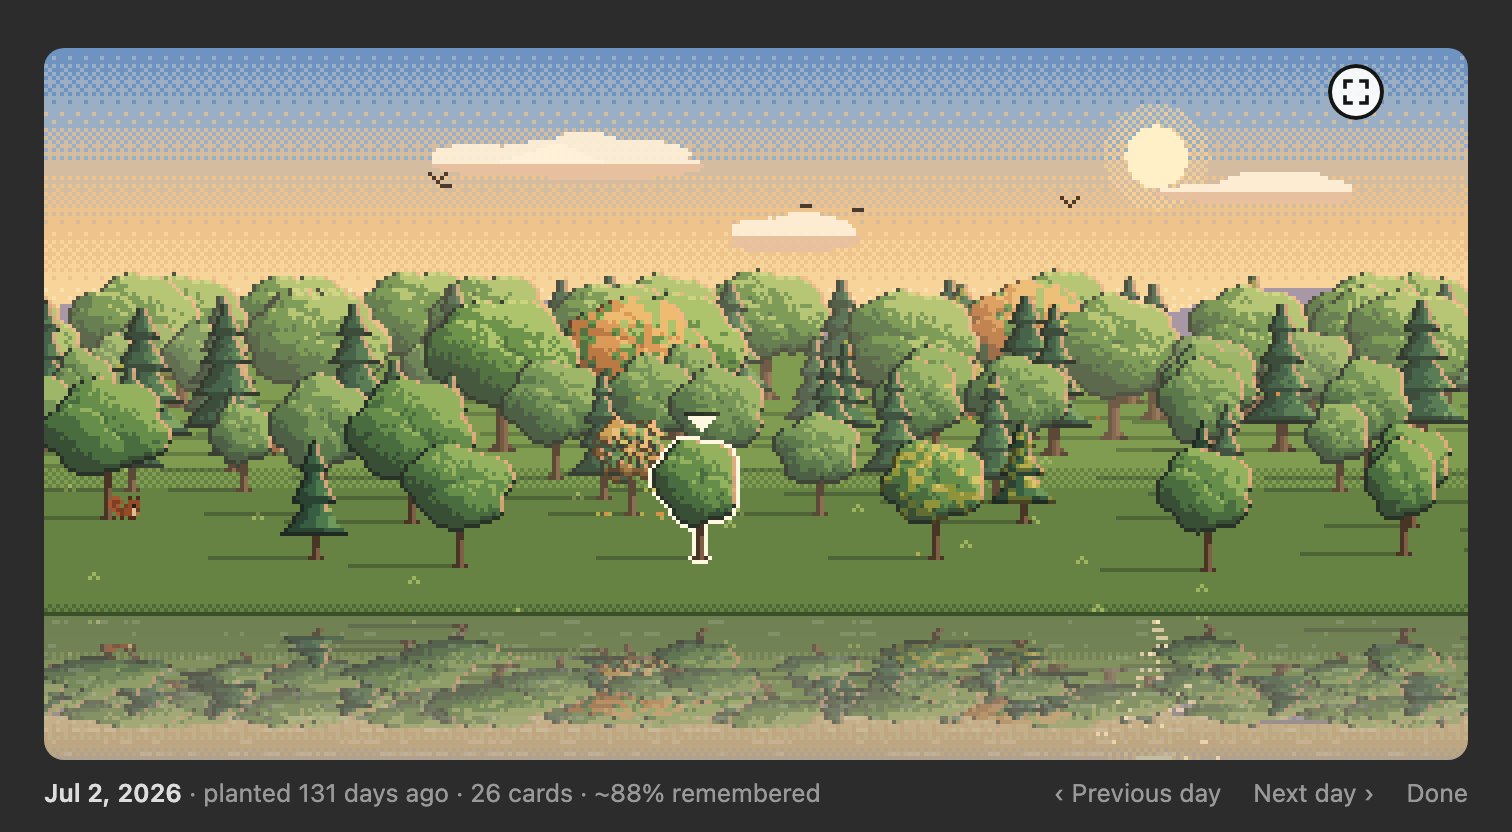
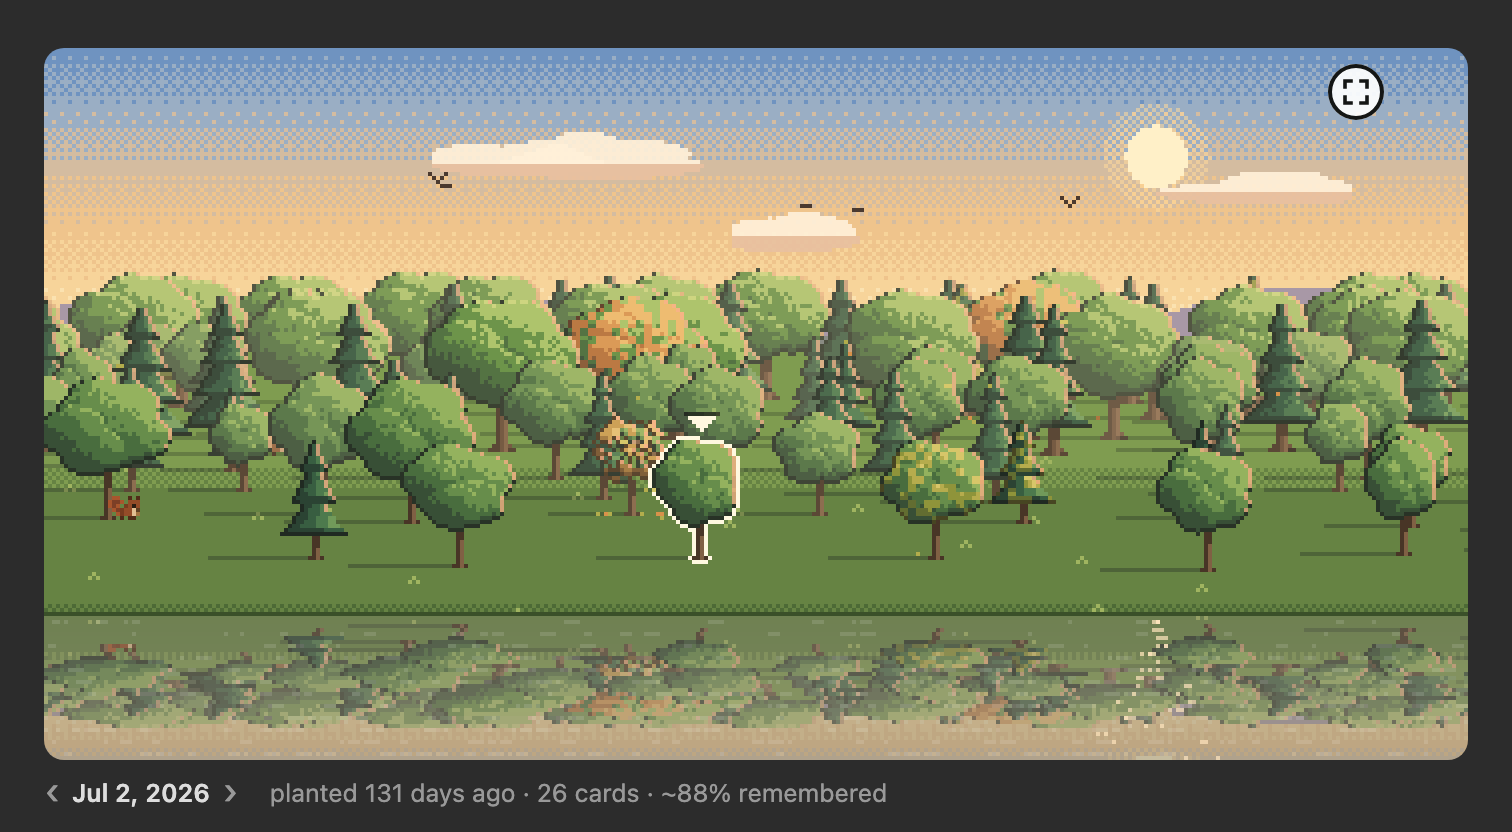
fix: zoomed in, arrows beside the date and no done

Changed region(s): [[0.0311, 0.9375, 0.5906, 0.9688], [0.6839, 0.9375, 0.9015, 0.9688], [0.9325, 0.9375, 0.9636, 0.9688]]

diff --git a/web/visit.js b/web/visit.js
@@ -195,17 +195,18 @@ const WHEEL_NOTCHES = 30;
 // a finger's second tap within DOUBLE_MS of the first, DOUBLE_PX from it, zooms DOUBLE_ROWS in
 // (a little less than half a pinch to twice as far apart), over DOUBLE_GLIDE_MS
 const DOUBLE_MS = 300, DOUBLE_PX = 30, DOUBLE_ROWS = 1, DOUBLE_GLIDE_MS = 220;
-// the bar's way to the day before or after the tree selected: the camera glides there in GLIDE_MS
-// (on the phone's full screen, just the arrows: there's no room for more)
-const DAYS = [['prev', AF.N_('zoom.previous_day'), '‹', AF.N_('zoom.the_tree_of_the_day_before')], ['next', AF.N_('zoom.next_day'), '›', AF.N_('zoom.the_tree_of_the_day_after')]];
+// the bar's way to the day before or after the tree selected: an arrow either side of its date (as a
+// date picker has them, beside what they change; words, "Previous day", sat across the panel from
+// it), or on the phone's full screen, two big ones on the right, under the thumb; the camera glides
+// there in GLIDE_MS
+const DAYS = [['prev', '‹', AF.N_('zoom.the_tree_of_the_day_before')], ['next', '›', AF.N_('zoom.the_tree_of_the_day_after')]];
 // the arrow keys walk: ↑ and ↓ KEY_ROWS in and out (a wheel's notch), ← and → KEY_SHARE of the
 // canvas's width along the rows (a key held down goes on)
 const KEY_ROWS = 0.4, KEY_SHARE = 0.1;
 const KEYS = { ArrowUp: [0, 1], ArrowDown: [0, -1], ArrowLeft: [-1, 0], ArrowRight: [1, 0] };
+// (no way out on the bar: the zoom button, lit while zoomed in, Esc or a mouse's back button leave;
+// a "Done" there read oddly)
 const BACK = AF.N_('zoom.back_to_the_whole_forest');
-// the bar's way out: "Done", as a mode is left (it showed "Back to the whole forest" while the whole
-// forest was what it showed, the moment zoom was turned on)
-const DONE = AF.N_('zoom.done');
 const GLIDE_MS = 420, LEAVE_MS = 520;
 const MONTH_ROWS = 1.5;
 // A drag past the forest's end (the rows' ends, the back row) gives, ever more stiffly, up to
@@ -313,12 +314,11 @@ AF.visits = function ({ root, data, base, animate, current, go, xOf, warm, alway
     if (shown === now) return;
     shown = now;
     if (!on) { bar.innerHTML = ''; return; }
-    const back = always ? '' : `<button type="button" class="af-visit-btn" data-act="back">${esc(AF.tx(DONE))}</button>`;
     if (picked == null) {
       // (short: the keys are in the zoom button's tooltip; the hint was 84 characters, two lines on a phone)
       const how = touch ? AF.t('zoom.pinch_to_zoom_drag_to_move')
         : AF.t('zoom.scroll_to_zoom_drag_to_move');
-      bar.innerHTML = `<span class="af-visit-about">${month ? `<b>${esc(month)}</b> · ` : ''}${esc(how)}</span><span class="af-visit-acts">${back}</span>`;
+      bar.innerHTML = `<span class="af-visit-about">${month ? `<b>${esc(month)}</b> · ` : ''}${esc(how)}</span>`;
       return;
     }
     // as its tooltip says it (web/tooltips.js), in its words and order: the date, how long ago ("Planted"
@@ -330,14 +330,15 @@ AF.visits = function ({ root, data, base, animate, current, go, xOf, warm, alway
     if (t.stage >= AF.STAGE.YOUNG && t.remembered != null && !(t.suspended && t.suspended >= t.n)) {
       about.push(AF.rememberedText(t));
     }
-    bar.innerHTML = `<span class="af-visit-about"><b>${AF.i18n.bdi(esc(fmtDate(t.date)))}</b> · ${esc(about.join(' · '))}</span><span class="af-visit-acts">`
-      + DAYS.map(([dir, label, ltrArrow, tip]) => {
-        // (right to left, the day before is to the right: its arrow points there, Next's to the left)
-        const arrow = AF.i18n.rtl() ? AF.i18n.arrow(ltrArrow === '‹' ? '›' : '‹') : ltrArrow;
-        const text = dir === 'prev' ? `${arrow} ${esc(AF.tx(label))}` : `${esc(AF.tx(label))} ${arrow}`;
-        return `<button type="button" class="af-visit-btn" data-day="${dir}" title="${esc(AF.tx(tip))}" aria-label="${esc(AF.tx(tip))}"${day(picked, dir) ? '' : ' disabled'}>${always ? arrow : text}</button>`;
-      }).join('')
-      + back + '</span>';
+    const [prev, next] = DAYS.map(([dir, ltrArrow, tip]) => {
+      // (right to left, the day before is to the right: its arrow points there, the day after's to the left)
+      const arrow = AF.i18n.rtl() ? AF.i18n.arrow(ltrArrow === '‹' ? '›' : '‹') : ltrArrow;
+      return `<button type="button" class="af-visit-btn${always ? '' : ' af-visit-step'}" data-day="${dir}" title="${esc(AF.tx(tip))}" aria-label="${esc(AF.tx(tip))}"${day(picked, dir) ? '' : ' disabled'}>${arrow}</button>`;
+    });
+    const date = `<b>${AF.i18n.bdi(esc(fmtDate(t.date)))}</b>`;
+    bar.innerHTML = always
+      ? `<span class="af-visit-about">${date} · ${esc(about.join(' · '))}</span><span class="af-visit-acts">${prev}${next}</span>`
+      : `<span class="af-visit-about"><span class="af-visit-day">${prev}${date}${next}</span>${esc(about.join(' · '))}</span>`;
   }
   /* the tree the camera stands before (up to MONTH_ROWS on), nearest the middle */
   function nearMiddle() {
@@ -647,7 +648,6 @@ AF.visits = function ({ root, data, base, animate, current, go, xOf, warm, alway
     const b = e.target.closest('button');
     if (!b || b.disabled) return;
     if (b.dataset.day) step(b.dataset.day);
-    else if (b.dataset.act === 'back') leave();
   });
   // the keys, while zooming is on and nothing else on the page is being typed into (nor the
   // heatmap under the forest, whose controls the arrow keys switch: web/calendar/)

diff --git a/web/forest.css b/web/forest.css
@@ -119,6 +119,12 @@
 .af-visit-btn[disabled] { opacity: 0.35; cursor: default; }
 .af-visit-btn:focus { outline: 2px solid currentColor; outline-offset: 1px; }
 .af-visit-btn:focus:not(:focus-visible) { outline: none; }
+/* the arrows either side of the selected tree's date (visit.js): a little larger than the words, on
+   the same line height, the bar no taller; padded to be easier to hit, the first one's glyph on the
+   bar's edge */
+.af-visit-day { margin: 0 10px 0 0; }
+.af-visit-step { margin: 0 !important; padding: 0 6px !important; font-size: 19px; line-height: 0; vertical-align: -1px; }
+.af-visit-step:first-child { margin: 0 0 0 -6px !important; }
 /* the buttons on the forest, the zoom and the settings cog in its top right corner: round,
    translucent, darker on hover (Anki's own button styles are more specific: see .af-cog) */
 .af-zoom {
@@ -671,6 +677,9 @@ body.af-behind-zooming > center > :not(.af-panel), body.af-behind-zooming .af-he
 .af-rtl .af-journal, .af-rtl .af-cal-journal { font-style: normal; }
 .af-rtl .af-visit-about { margin: 0 0 0 16px; }
 .af-rtl .af-visit-btn { margin: 0 16px 0 0 !important; }
+.af-rtl .af-visit-day { margin: 0 0 0 10px; }
+.af-rtl .af-visit-step { margin: 0 !important; }
+.af-rtl .af-visit-step:first-child { margin: 0 -6px 0 0 !important; }
 .af-rtl .af-news { text-align: right; }
 .af-rtl .af-news-acts button + button { margin-left: 0; margin-right: 14px; }
 .af-rtl .af-cal { text-align: right; }

diff --git a/web/strings_en.js b/web/strings_en.js
@@ -526,10 +526,7 @@ window.AnkiForest.EN = {
  "tooltip.the_deep_forest": "The deep forest",
  "tooltip.young": "young",
  "zoom.back_to_the_whole_forest": "Back to the whole forest",
- "zoom.done": "Done",
- "zoom.next_day": "Next day",
  "zoom.pinch_to_zoom_drag_to_move": "Pinch to zoom, drag to move, tap a tree to select it",
- "zoom.previous_day": "Previous day",
  "zoom.scroll_to_zoom_drag_to_move": "Scroll to zoom, drag to move, click a tree to select it",
  "zoom.the_tree_of_the_day_after": "The tree of the day after",
  "zoom.the_tree_of_the_day_before": "The tree of the day before",

diff --git a/e2e/old_anki_check.py b/e2e/old_anki_check.py
@@ -508,12 +508,12 @@ def visit():
             result["problems"].append(f"a drag did not walk about: {raw[:200] if raw else raw}")
         else:
             result["steps"].append("dragged along the rows")
-        press('.af-visit-btn[data-act="back"]', left)
+        press('.af-zoom', left)
 
     def left(raw):
         got = json.loads(raw or "{}")
         if got.get("on") or got.get("bar") or not got.get("caption"):
-            result["problems"].append(f"Back did not leave the zoomed view: {raw[:200] if raw else raw}")
+            result["problems"].append(f"the zoom button did not leave the zoomed view: {raw[:200] if raw else raw}")
         else:
             result["steps"].append("back to the whole forest")
         QTimer.singleShot(0, settings)
